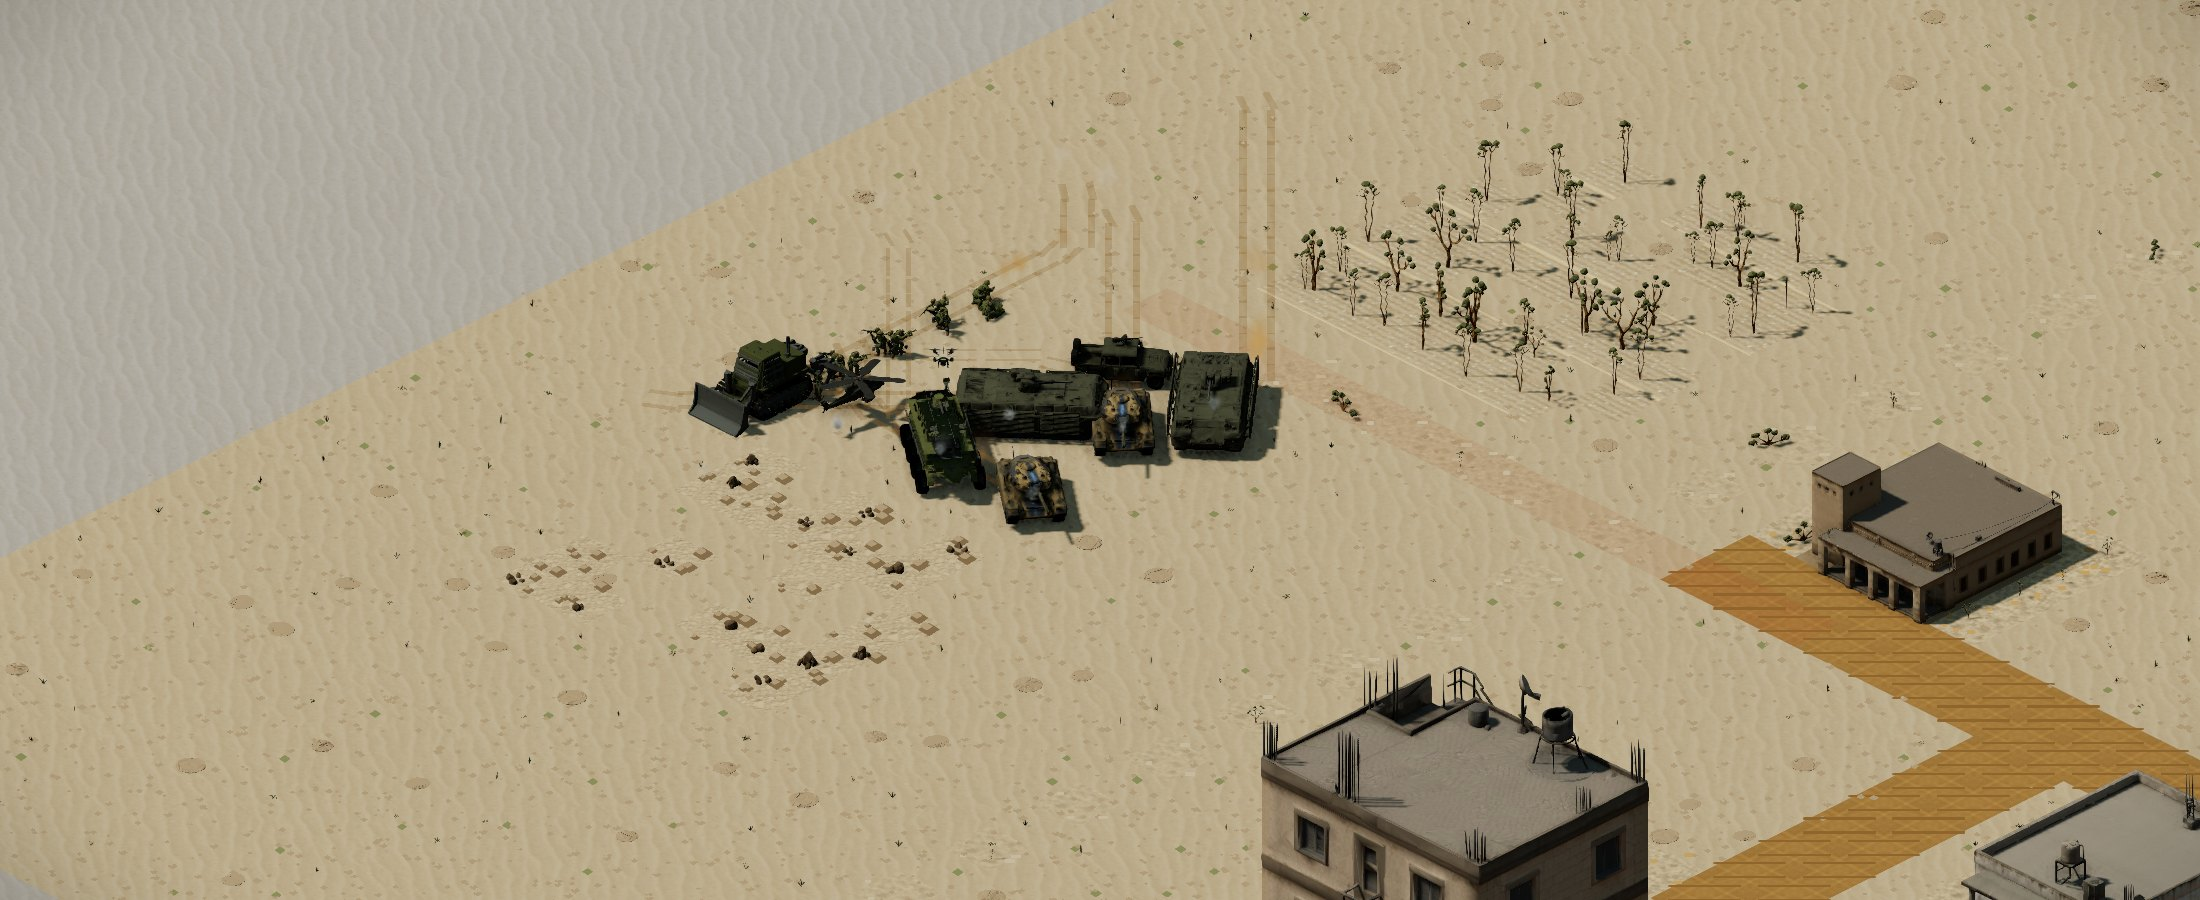
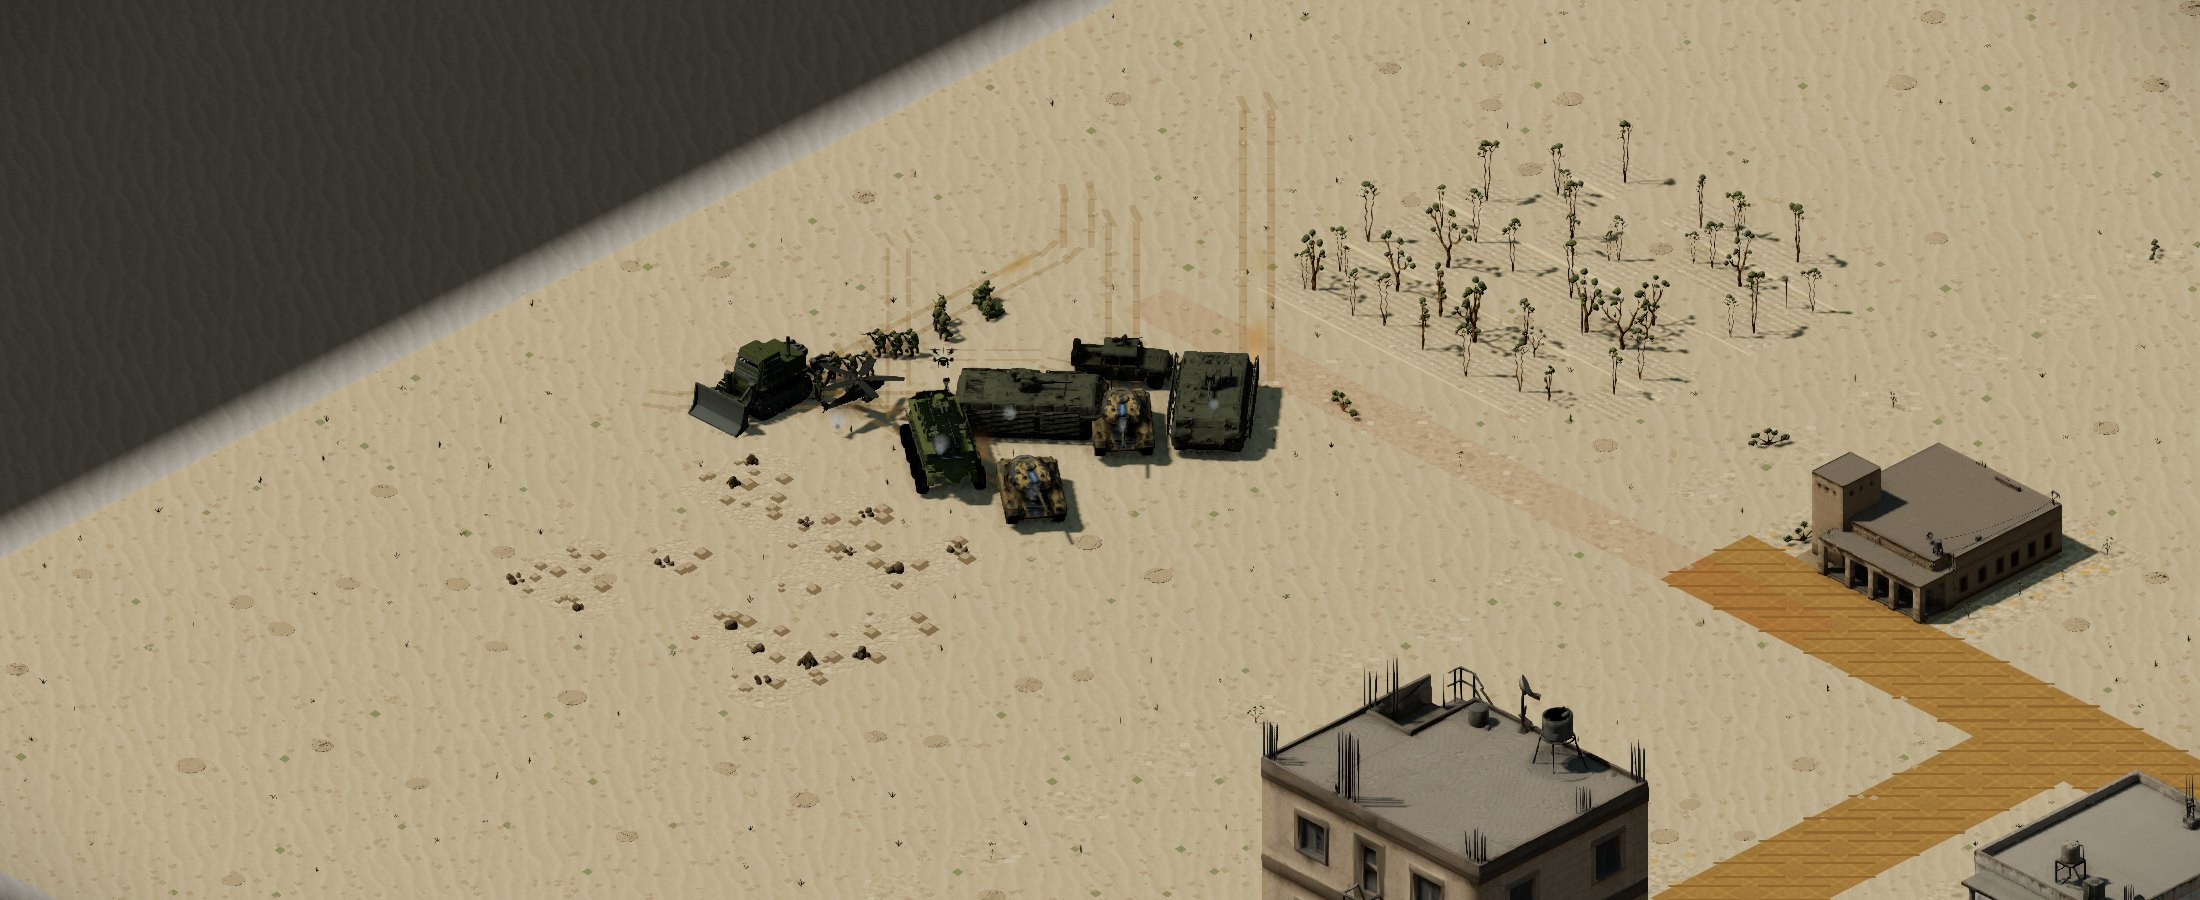
fix(C2): fog debug layer reveals on-map ground instead of disabling the pass
setDebugLayerVisible('fog', false) used to flip FogOfWarPass.enabled,
which also disabled FOG_OFFMAP_FADE_TILES -- the off-map fade Task 9
added so ground beyond the map edge reads as never-seen distance
instead of a raw, ClampToEdgeWrapping-flooded wedge. Hiding the whole
pass for tools/src/perf/plate-capture.ts reinstated exactly that pale
wedge in the shipped menu key art.

FogOfWarPass now carries a uRevealAll uniform: mixed into the sampled
shroud value BEFORE the off-map fade multiply, so an on-map sample
reads as fully seen while the fade beyond the border runs unchanged.
The pass itself is never disabled by this layer any more.
setDebugLayerVisible('fog', false) sets uRevealAll to 1; true clears
it to 0.

Regenerated assets/ui/menu_plate.jpg with pnpm plate:capture and
sampled it: the top-left off-map region now reads ~(55,52,45), the
shrouded skirt tone, in place of the ~(175,171,160) pale wedge, with a
smooth gradient at the map edge and no hard diagonal.

diff --git a/tools/src/perf/plate-capture.ts b/tools/src/perf/plate-capture.ts
@@ -21,22 +21,35 @@
  * capture rather than a fast one (`golden-diff/browser.ts`'s
  * `launchCaptureBrowser` makes the same choice for the same reason).
  *
- * ## History: two follow-ups, both from looking at the actual plate
+ * ## History: three follow-ups, all from looking at the actual plate
  *
  * v1 framed the sandbox force where it SPAWNS, near `kdf_assembly` (world
  * (4, 23), four tiles from the map's west edge) -- and fighting the map's
  * edges from there, at whatever camera position, kept costing something:
  * either a visible skirt wedge, or the force pushed to a corner of frame, or
  * (once zoom 1.3 was required) a width narrower than the old banner's. v2
- * hid the unit/structure overlays and the occlusion silhouette. v3 (this
- * version) stopped fighting the spawn position and MOVED the force instead:
- * ordered to open ground between the assembly area and the town, the same
- * way `golden-diff/baseline.ts`'s `RELIEF_SCENARIO` moves its recon drone
- * with a `queueCommand` -- see "Order and arrival" below. This also fixed a
- * defect the coordinator caught that no earlier version of this file even
- * knew to look for: the large dark diagonal every capture carried was not a
- * shadow, it was the fog-of-war boundary, and moving the camera around never
- * could have fixed that -- only hiding the fog pass could.
+ * hid the unit/structure overlays and the occlusion silhouette. v3 stopped
+ * fighting the spawn position and MOVED the force instead: ordered to open
+ * ground between the assembly area and the town, the same way
+ * `golden-diff/baseline.ts`'s `RELIEF_SCENARIO` moves its recon drone with a
+ * `queueCommand` -- see "Order and arrival" below. This also fixed a defect
+ * the coordinator caught that no earlier version of this file even knew to
+ * look for: the large dark diagonal every capture carried was not a shadow,
+ * it was the fog-of-war boundary, and moving the camera around never could
+ * have fixed that -- only hiding the fog pass could, which v3 did by
+ * disabling it outright.
+ *
+ * v4 (this version, C2 of the shell-upgrade Phase 0 final review) undid
+ * that last part. Disabling the WHOLE fog pass to remove the fog-of-war
+ * boundary also disabled `FOG_OFFMAP_FADE_TILES`, the off-map fade the SAME
+ * pass carries -- so the shipped plate's off-map ground read back
+ * unshrouded, a pale, texture-poor wedge with a dead-straight diagonal edge
+ * at the map border, the exact defect class this whole file exists to
+ * abolish, just relocated. `setDebugLayerVisible('fog', false)` now leaves
+ * the pass enabled and reveals every ON-map sample instead (`uRevealAll`,
+ * `fog-pass.ts`), so the fog-of-war boundary still disappears and the
+ * off-map fade still darkens the skirt toward never-seen, exactly as it
+ * does in a real mission.
  *
  * ## Order and arrival
  *
@@ -80,17 +93,22 @@
  * a capture near the map's civic-hall structure showed a thin red outline
  * poking through its wall, which turned out to be a HOSTILE unit standing
  * behind it, revealed by the sandbox force's own recon drone, not a HUD
- * element. `setDebugLayerVisible('fog', false)` hides the SECOND thing the
+ * element. `setDebugLayerVisible('fog', false)` removes the SECOND thing the
  * coordinator caught: the fog-of-war post pass (`FogOfWarPass`, band-dimming
  * never-seen ground to 85% shroud and explored ground to 40%), which a
  * camera anywhere near the edge of what the force can see paints as a hard
  * diagonal that reads as a shadow until you look for what casts it and find
- * nothing. Both calls run AFTER the arrival step-loop's last `step()` and
+ * nothing. As of v4 this no longer disables the pass -- it reveals every
+ * ON-map sample instead (`uRevealAll`, `fog-pass.ts`) so the pass's own
+ * off-map fade keeps running; see this file's own History section for why
+ * disabling the pass outright shipped a different first-minute defect in
+ * its place. Both calls run AFTER the arrival step-loop's last `step()` and
  * BEFORE the freeze + single repaint, per the coordinator's own ordering --
  * both are one-time flag flips (a batch's `endFrame()` never touches
- * `.visible`; neither `Pass`'s `enabled` is ever reasserted per frame, see
- * `debug-layers.ts`'s own comments for the greps that confirm it), so there
- * is nothing to race by running them before the freeze rather than after.
+ * `.visible`; neither `Pass`'s `enabled` nor `FogOfWarPass`'s `uRevealAll`
+ * uniform is ever reasserted per frame, see `debug-layers.ts`'s own comments
+ * for the greps that confirm it), so there is nothing to race by running
+ * them before the freeze rather than after.
  *
  * ## Camera and clip
  *

diff --git a/packages/render/src/three/fog-pass.test.ts b/packages/render/src/three/fog-pass.test.ts
@@ -27,6 +27,9 @@ describe('FogOfWarPass', () => {
     expect(pass.uniforms.uNeverSeen.value).toBe(FOG_NEVER_SEEN);
     expect(pass.uniforms.uExplored.value).toBe(FOG_EXPLORED);
     expect(pass.uniforms.uMapSize.value.toArray()).toEqual([48, 48]);
+    // C2: defaults to 0 -- every shipped frame is a no-op on the on-map
+    // maths, per the shader's own `mix(v, 1.0, uRevealAll)`.
+    expect(pass.uniforms.uRevealAll.value).toBe(0);
     const [r] = hexToLinear(FOG_TINT_HEX);
     expect((pass.uniforms.uTint.value as THREE.Vector3).x).toBeCloseTo(r, 6);
     expect(pass.needsSwap).toBe(true);
@@ -75,6 +78,74 @@ describe('FogOfWarPass', () => {
     // exactly on the border is bit-identical to what it was before this
     // existed -- the whole reason nothing inside the map moved.
     expect(frag).toContain('float v = texture2D(uShroud, tex).r;');
+  });
+});
+
+describe('uRevealAll (C2: reveal every on-map tile without disabling the pass)', () => {
+  it('runs BEFORE the off-map fade, so ground past the border still fades rather than snapping to seen', () => {
+    // `plate-capture.ts` used to hide the fog-of-war boundary by disabling
+    // this whole pass (`setDebugLayerVisible('fog', false)`), which also
+    // disabled `FOG_OFFMAP_FADE_TILES` and shipped a pale, unshrouded wedge
+    // beyond the map edge in the key art. The fix leaves the pass enabled
+    // and forces the SAMPLED value toward 1.0 instead -- ordering matters:
+    // if this line ran AFTER the off-map multiply, a revealed off-map pixel
+    // would read as seen no matter how far outside the map it was.
+    const pass = new FogOfWarPass(new THREE.Texture(), 8, 8);
+    const frag = pass.material.fragmentShader;
+    expect(frag).toContain('uniform float uRevealAll;');
+    expect(frag).toContain('v = mix(v, 1.0, uRevealAll);');
+    const revealIdx = frag.indexOf('v = mix(v, 1.0, uRevealAll);');
+    const offMapIdx = frag.indexOf('v *= 1.0 - clamp(length(outUv * uMapSize)');
+    expect(revealIdx).toBeGreaterThan(-1);
+    expect(offMapIdx).toBeGreaterThan(-1);
+    expect(revealIdx).toBeLessThan(offMapIdx);
+  });
+});
+
+/**
+ * The shader's reveal-plus-off-map maths, in JS, combining the two GLSL
+ * lines pinned above so the numeric CLAIM (on-map always reads as seen; the
+ * off-map fade is untouched) is checked rather than merely the source text.
+ * `shroud` is the sampled shroud value before either term runs, matching
+ * the shader's own `v`.
+ */
+function dimWithReveal(shroud: number, revealAll: number, tilesOutside: number): number {
+  const revealed = shroud * (1 - revealAll) + 1.0 * revealAll; // mix(v, 1.0, uRevealAll)
+  const fade = 1 - Math.min(1, Math.max(0, tilesOutside / FOG_OFFMAP_FADE_TILES));
+  const v = revealed * fade;
+  return v < 0.5
+    ? FOG_NEVER_SEEN * (1 - v * 2) + FOG_EXPLORED * (v * 2)
+    : FOG_EXPLORED * (1 - (v - 0.5) * 2);
+}
+
+describe('reveal-all combined with the off-map fade', () => {
+  it('reads as fully seen (dim 0) anywhere ON the map, whatever the real shroud value', () => {
+    for (const shroud of [0, 0.25, 0.5, 0.75, 1]) {
+      expect(dimWithReveal(shroud, 1, 0)).toBeCloseTo(0, 6);
+    }
+  });
+
+  it('leaves the off-map fade doing exactly what it does with reveal-all off', () => {
+    // A tile beyond the border reads never-seen with reveal-all on OR off --
+    // the fade has already driven v to 0 before dim is computed, so
+    // uRevealAll's forced 1.0 never survives the multiply.
+    expect(dimWithReveal(1, 1, FOG_OFFMAP_FADE_TILES)).toBeCloseTo(FOG_NEVER_SEEN, 6);
+    expect(dimWithReveal(0, 0, FOG_OFFMAP_FADE_TILES)).toBeCloseTo(FOG_NEVER_SEEN, 6);
+    // Halfway out, reveal-all's forced 1.0 fades linearly toward the border
+    // exactly as a genuinely fully-seen shroud sample would.
+    expect(dimWithReveal(1, 1, FOG_OFFMAP_FADE_TILES / 2)).toBeCloseTo(FOG_EXPLORED, 6);
+  });
+
+  it('is algebraically a no-op when uRevealAll is 0 -- the default, and every shipped frame', () => {
+    for (const shroud of [0, 0.3, 0.6, 1]) {
+      for (const tilesOutside of [0, 0.5, 2]) {
+        const fade = 1 - Math.min(1, Math.max(0, tilesOutside / FOG_OFFMAP_FADE_TILES));
+        const v = shroud * fade;
+        const expected =
+          v < 0.5 ? FOG_NEVER_SEEN * (1 - v * 2) + FOG_EXPLORED * (v * 2) : FOG_EXPLORED * (1 - (v - 0.5) * 2);
+        expect(dimWithReveal(shroud, 0, tilesOutside)).toBeCloseTo(expected, 6);
+      }
+    }
   });
 });
 

diff --git a/packages/render/src/three/fog-pass.ts b/packages/render/src/three/fog-pass.ts
@@ -8,6 +8,16 @@
  * never-seen over one tile -- see `FOG_OFFMAP_FADE_TILES`, which exists
  * because `terrain/skirt.ts` put geometry out there for the first time.
  *
+ * `uRevealAll` (C2, shell-upgrade Phase 0 final fix wave): a debug-only
+ * uniform that forces every ON-map sample to read as fully seen while
+ * leaving the pass itself enabled, so the off-map fade above still runs.
+ * `tools/src/perf/plate-capture.ts` used to reach for
+ * `setDebugLayerVisible('fog', false)`, which skipped this whole pass --
+ * and with it, `FOG_OFFMAP_FADE_TILES`, the very fade this comment
+ * describes -- so the skirt read back as an unshrouded, ClampToEdge-flooded
+ * wedge instead of fading to never-seen. `uRevealAll` lets the debug layer
+ * remove the FOG-OF-WAR boundary without removing the OFF-MAP one.
+ *
  * Sits directly after RenderPass in `post-chain.ts`, so `readBuffer` is the
  * target the scene was just drawn into and `readBuffer.depthTexture` is that
  * scene's depth. That only works because each composer target carries its
@@ -124,6 +134,7 @@ uniform vec3 uTint;
 uniform float uNeverSeen;
 uniform float uExplored;
 uniform float uTintGain;
+uniform float uRevealAll;
 varying vec2 vUv;
 void main() {
   vec4 color = texture2D(tDiffuse, vUv);
@@ -134,6 +145,14 @@ void main() {
   vec4 world = uCameraWorld * view;
   vec2 tex = vec2(world.x / uMapSize.x, world.z / uMapSize.y);
   float v = texture2D(uShroud, tex).r;
+  // uRevealAll is 0 in every shipped frame -- mix(v, 1.0, 0.0) is exactly
+  // v, so this is a no-op on the on-map maths unless the debug layer sets
+  // it. When it is 1 (the plate capture's fog layer hidden), every ON-map
+  // sample reads as fully seen -- but this runs BEFORE the off-map fade
+  // below, so ground past the map edge still fades from that reveal toward
+  // never-seen over FOG_OFFMAP_FADE_TILES, exactly as it does when the pass
+  // is left alone.
+  v = mix(v, 1.0, uRevealAll);
   vec2 outUv = max(vec2(0.0), max(-tex, tex - vec2(1.0)));
   v *= 1.0 - clamp(length(outUv * uMapSize) / ${FOG_OFFMAP_FADE_TILES.toFixed(1)}, 0.0, 1.0);
   float dim = v < 0.5 ? mix(uNeverSeen, uExplored, v * 2.0) : mix(uExplored, 0.0, (v - 0.5) * 2.0);
@@ -155,6 +174,7 @@ export class FogOfWarPass extends Pass {
     uNeverSeen: THREE.IUniform<number>;
     uExplored: THREE.IUniform<number>;
     uTintGain: THREE.IUniform<number>;
+    uRevealAll: THREE.IUniform<number>;
   };
   readonly material: THREE.ShaderMaterial;
   private readonly quad: FullScreenQuad;
@@ -177,6 +197,7 @@ export class FogOfWarPass extends Pass {
       uNeverSeen: { value: FOG_NEVER_SEEN },
       uExplored: { value: FOG_EXPLORED },
       uTintGain: { value: FOG_TINT_GAIN },
+      uRevealAll: { value: 0 },
     };
     this.material = new THREE.ShaderMaterial({
       uniforms: this.uniforms,

diff --git a/packages/render/src/three/debug-layers.test.ts b/packages/render/src/three/debug-layers.test.ts
@@ -78,7 +78,7 @@ function internals(r: ThreeRenderer): {
   groundMat: GroundMaterial;
   skirtMesh: THREE.Mesh;
   vignettePass: { enabled: boolean } | null;
-  fogPass: { enabled: boolean } | null;
+  fogPass: { enabled: boolean; uniforms: { uRevealAll: { value: number } } } | null;
   overlayBatch: { mesh: THREE.Mesh };
   numeralBatch: { mesh: THREE.Mesh };
   chevronBatch: { mesh: THREE.Mesh };
@@ -178,23 +178,30 @@ describe('DEBUG_LAYERS', () => {
     r.dispose();
   });
 
-  it('the fog toggle reports 0 when the pass does not exist, and flips it when it does -- exactly vignette\'s own shape', () => {
+  it('the fog toggle reports 0 when the pass does not exist, and otherwise drives uRevealAll rather than enabled (C2)', () => {
     // task-10 follow-up 2: the plate's large dark diagonal, first read as a
     // shadow, was the fog-of-war boundary (`FogOfWarPass`) -- never-seen
-    // ground pulled to 85% shroud beside explored ground at 40%. Same
-    // reasoning as `vignette` above: a post pass built once in `init()`,
-    // which these fakes never reach, so 0 rather than 1 is the honest
-    // reading with no pass in place.
+    // ground pulled to 85% shroud beside explored ground at 40%. With no
+    // pass in place these fakes never reach `init()`, so 0 rather than 1 is
+    // the honest reading.
     const r = makeRenderer();
     const i = internals(r);
     expect(i.fogPass).toBeNull();
     expect(r.setDebugLayerVisible('fog', false)).toBe(0);
 
-    i.fogPass = { enabled: true };
+    // C2: disabling the WHOLE pass also disabled its off-map fade, which
+    // reinstated the pale wedge the fade exists to remove -- so this layer
+    // now leaves `enabled` alone and drives `uRevealAll` on the pass's own
+    // uniforms instead. visible=false reveals every on-map sample
+    // (uRevealAll=1); visible=true restores real fog-of-war (uRevealAll=0).
+    // `enabled` never moves.
+    i.fogPass = { enabled: true, uniforms: { uRevealAll: { value: 0 } } };
     expect(r.setDebugLayerVisible('fog', false)).toBe(1);
-    expect(i.fogPass.enabled).toBe(false);
+    expect(i.fogPass.uniforms.uRevealAll.value).toBe(1);
+    expect(i.fogPass.enabled).toBe(true);
     expect(r.setDebugLayerVisible('fog', false)).toBe(0);
     expect(r.setDebugLayerVisible('fog', true)).toBe(1);
+    expect(i.fogPass.uniforms.uRevealAll.value).toBe(0);
     expect(i.fogPass.enabled).toBe(true);
     i.fogPass = null;
     r.dispose();

diff --git a/packages/render/src/three/ThreeRenderer.ts b/packages/render/src/three/ThreeRenderer.ts
@@ -2404,18 +2404,26 @@ export class ThreeRenderer implements Renderer {
         return batchCount + this.silhouetteMeshMaterials.length;
       }
       case 'fog':
-        // Exactly `vignette`'s own shape -- a `Pass.enabled`, not an
-        // `Object3D.visible`, and nothing in `frame()` re-asserts it: the
-        // chain is rebuilt only by the three `set*Pass` calls, all of which
-        // run in `init()`/`dispose()`. See `debug-layers.ts`'s own comment
-        // for the grep that confirmed no other writer of `fogPass.enabled`
-        // exists. Returns 1 when it actually changed something, which is
-        // what makes a missing pass (`init()` never ran) read as 0 objects
-        // rather than as a silent pass.
+        // C2 (shell-upgrade Phase 0 final fix wave): this used to be
+        // `Pass.enabled`, exactly `vignette`'s shape -- but skipping the
+        // whole pass to remove the fog-of-war boundary also skipped
+        // `FOG_OFFMAP_FADE_TILES`, the off-map fade the SAME pass carries,
+        // and `tools/src/perf/plate-capture.ts` shipped a pale, unshrouded
+        // wedge beyond the map edge as a result. The pass now stays enabled
+        // always; hiding this layer instead drives `uRevealAll` on the
+        // pass's own uniforms (`fog-pass.ts`), which forces every ON-map
+        // sample to read as fully seen while leaving the off-map fade's
+        // maths untouched -- see that file's own comment on the uniform.
+        // Nothing in `frame()` re-asserts a uniform value any more than it
+        // reasserted `enabled`, so the plain toggle still holds across the
+        // gate's repaint. Returns 1 when it actually changed something,
+        // which is what makes a missing pass (`init()` never ran) read as 0
+        // objects rather than as a silent pass.
         {
-          const was = this.fogPass?.enabled ?? false;
-          if (this.fogPass) this.fogPass.enabled = visible;
-          return this.fogPass === null || was === visible ? 0 : 1;
+          const was = (this.fogPass?.uniforms.uRevealAll.value ?? 0) === 1;
+          const reveal = !visible;
+          if (this.fogPass) this.fogPass.uniforms.uRevealAll.value = reveal ? 1 : 0;
+          return this.fogPass === null || was === reveal ? 0 : 1;
         }
     }
   }

diff --git a/packages/render/src/three/debug-layers.ts b/packages/render/src/three/debug-layers.ts
@@ -143,14 +143,27 @@
  * a shadow was the fog-of-war boundary -- `FogOfWarPass` (`../fog-pass.ts`)
  * pulling never-seen ground toward 85% shroud and explored ground toward
  * 40%, which a camera parked near the edge of what the sandbox force can
- * see paints as a hard line. Exactly `vignette`'s own shape, confirmed by
- * reading rather than assumed: `ThreeRenderer.fogPass` is a `Pass | null`
- * set once in `init()` (`this.fogPass = new FogOfWarPass(...)`) and handed
- * to the chain through `PostChain.setFogPass`, which only stores it
- * (`post-chain.ts`) -- grepping the whole file for `fogPass.enabled` finds
- * no writer at all, so nothing per-frame re-asserts it and a plain toggle on
- * the pass's own `enabled` holds across the repaint the way `vignette`'s
- * does and `units`' plain `visible` write could not.
+ * see paints as a hard line.
+ *
+ * C2 (shell-upgrade Phase 0 final fix wave) CHANGED WHAT THIS DOES. It used
+ * to be a `Pass.enabled` flip, exactly `vignette`'s shape -- but that
+ * skipped the WHOLE pass, including `FOG_OFFMAP_FADE_TILES`, the off-map
+ * fade the same pass carries so ground beyond the map edge reads as
+ * never-seen distance rather than a raw, `ClampToEdgeWrapping`-flooded
+ * wedge. Disabling the pass to remove the fog-of-war boundary reinstated
+ * exactly that wedge in the shipped key art. Hiding this layer now sets
+ * `uRevealAll` on the pass's OWN uniforms (`fog-pass.ts`) instead, which
+ * forces every ON-map sample to read as fully seen while the off-map fade's
+ * maths runs unchanged -- so the fog-of-war boundary disappears and the
+ * off-map skirt still darkens toward never-seen. The pass itself is never
+ * disabled by this layer any more. Confirmed by reading rather than
+ * assumed: `ThreeRenderer.fogPass` is a `Pass | null` set once in `init()`
+ * (`this.fogPass = new FogOfWarPass(...)`) and handed to the chain through
+ * `PostChain.setFogPass`, which only stores it (`post-chain.ts`) --
+ * grepping the whole file for `fogPass.uniforms.uRevealAll` finds no writer
+ * outside this one case, so nothing per-frame re-asserts it and a plain
+ * uniform write holds across the repaint the way `vignette`'s `enabled`
+ * flip does and `units`' plain `visible` write could not.
  */
 export const DEBUG_LAYERS = [
   'scatter',
